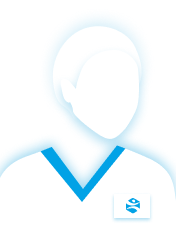
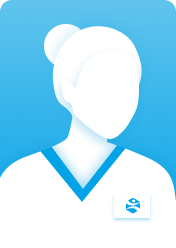
护工默认头像

diff --git a/lib/widget/checkable_nurse_item.dart b/lib/widget/checkable_nurse_item.dart
@@ -132,14 +132,7 @@ class _CheckabledNurseItemState extends State<CheckabledNurseItem> {
               borderRadius: BorderRadius.circular(8),
               child: Builder(
                 builder: (_) {
-                  try {
-                    return Image.network(
-                      widget.info.headImg,
-                      width: 88,
-                      height: 124,
-                      fit: BoxFit.fitHeight,
-                    );
-                  } catch (e) {
+                  if (widget.info.headImg == null || widget.info.headImg.isEmpty) {
                     return Image.asset(
                       'assets/images/nurse_avatar.png',
                       width: 88,
@@ -147,6 +140,12 @@ class _CheckabledNurseItemState extends State<CheckabledNurseItem> {
                       fit: BoxFit.fitHeight,
                     );
                   }
+                  return Image.network(
+                    widget.info.headImg,
+                    width: 88,
+                    height: 124,
+                    fit: BoxFit.fitHeight,
+                  );
                 },
               ),
             ),

diff --git a/lib/views/home/home.dart b/lib/views/home/home.dart
@@ -153,15 +153,7 @@ class UserDrawer extends StatelessWidget {
               ),
               SizedBox(height: 20),
               Builder(builder: (_) {
-                try {
-                  return ClipOval(
-                    child: Image.network(
-                      user.info.loginUser.headImg,
-                      width: 72,
-                      height: 72,
-                    ),
-                  );
-                } catch (e) {
+                if (user.info.loginUser.headImg == null || user.info.loginUser.headImg.isEmpty) {
                   return ClipOval(
                     child: Image.asset(
                       'assets/images/avatar.png',
@@ -170,6 +162,13 @@ class UserDrawer extends StatelessWidget {
                     ),
                   );
                 }
+                return ClipOval(
+                  child: Image.network(
+                    user.info.loginUser.headImg,
+                    width: 72,
+                    height: 72,
+                  ),
+                );
               }),
               SizedBox(height: 12),
               Text(

diff --git a/lib/widget/nurse_item.dart b/lib/widget/nurse_item.dart
@@ -153,12 +153,22 @@ class _NurseItemState extends State<NurseItem> with SingleTickerProviderStateMix
             try {
               return ClipRRect(
                 borderRadius: BorderRadius.circular(8),
-                child: Image.network(
-                  widget.info.headImg,
-                  width: 72,
-                  height: 102,
-                  fit: BoxFit.fitHeight,
-                ),
+                child: Builder(builder: (_) {
+                  if (widget.info.headImg == null || widget.info.headImg.isEmpty) {
+                    return Image.asset(
+                      'assets/images/nurse_avatar.png',
+                      width: 72,
+                      height: 102,
+                      fit: BoxFit.fitHeight,
+                    );
+                  }
+                  return Image.network(
+                    widget.info.headImg,
+                    width: 72,
+                    height: 102,
+                    fit: BoxFit.fitHeight,
+                  );
+                }),
               );
             } catch (e) {
               return ClipRRect(

diff --git a/lib/views/home/profit.dart b/lib/views/home/profit.dart
@@ -315,16 +315,7 @@ class _ProfitState extends State<Profit> with AutomaticKeepAliveClientMixin {
       child: Row(
         children: [
           Builder(builder: (_) {
-            try {
-              return ClipOval(
-                child: Image.network(
-                  info.headImg,
-                  width: 40,
-                  height: 40,
-                  fit: BoxFit.cover,
-                ),
-              );
-            } catch (e) {
+            if (info.headImg == null || info.headImg.isEmpty) {
               return ClipOval(
                 child: Image.asset(
                   'assets/images/nurse_avatar.png',
@@ -334,6 +325,14 @@ class _ProfitState extends State<Profit> with AutomaticKeepAliveClientMixin {
                 ),
               );
             }
+            return ClipOval(
+              child: Image.network(
+                info.headImg,
+                width: 40,
+                height: 40,
+                fit: BoxFit.cover,
+              ),
+            );
           }),
           SizedBox(width: 16),
           Text(

diff --git a/lib/widget/order_item.dart b/lib/widget/order_item.dart
@@ -76,17 +76,16 @@ class _OrderItemState extends State<OrderItem> {
           children: [
             Positioned.fill(
               child: Builder(builder: (_) {
-                try {
-                  return Image.network(
-                    item.headImg,
-                    fit: BoxFit.cover,
-                  );
-                } catch (e) {
+                if (item.headImg == null || item.headImg.isEmpty) {
                   return Image.asset(
                     'assets/images/nurse_avatar.png',
                     fit: BoxFit.cover,
                   );
                 }
+                return Image.network(
+                  item.headImg,
+                  fit: BoxFit.cover,
+                );
               }),
             ),
             Align(

diff --git a/lib/main.dart b/lib/main.dart
@@ -15,10 +15,12 @@ import 'package:flutter/material.dart';
 import 'package:flutter/services.dart';
 import 'package:flutter_bugly/flutter_bugly.dart';
 import 'package:fluwx/fluwx.dart';
+import 'package:permission_handler/permission_handler.dart';
 import 'package:provider/provider.dart';
 
 main() async {
   WidgetsFlutterBinding.ensureInitialized();
+  await Permission.notification.request();
   registerWxApi(
     appId: "wx18fc3a377ec300f8",
     universalLink: "https://yihut.cn/foreman/ulink/",

diff --git a/lib/views/order_detail/order_detail.dart b/lib/views/order_detail/order_detail.dart
@@ -256,6 +256,7 @@ class _OrderDetailState extends State<OrderDetail> with SingleTickerProviderStat
               ],
             ),
           ),
+          SizedBox(height: 70)
         ],
       ),
     );
